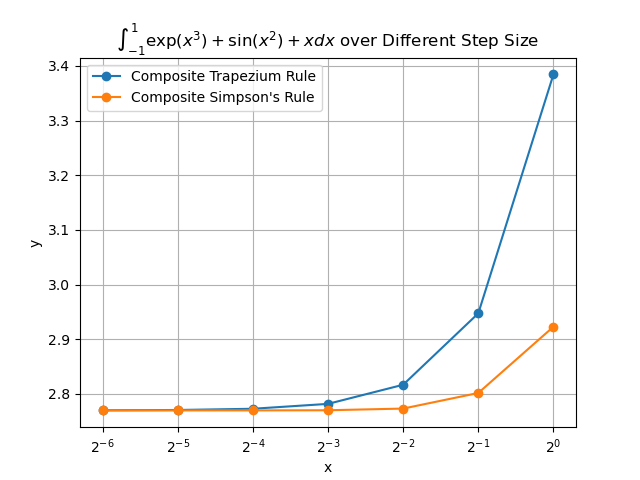
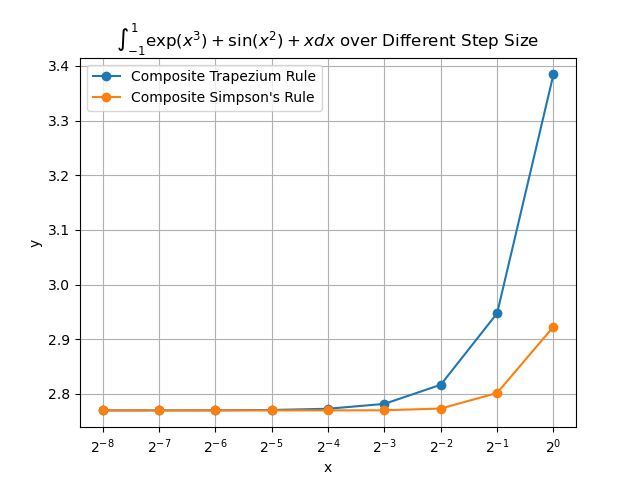
docs: add smaller step size for q1

diff --git a/hw6/q1.py b/hw6/q1.py
@@ -214,8 +214,8 @@ def print_results(col_a : np.array,
 
     # Print header.
     # NOTE: the width of each cell is currently required to be literal int
-    print(f"|{label_a : ^10}|{label_b : ^25}|")
-    print(f"|{':' + '-' * 8 + ':'}|"
+    print(f"|{label_a : ^12}|{label_b : ^25}|")
+    print(f"|{':' + '-' * 10 + ':'}|"
           + f"{':' + '-' * 23 + ':'}|")
     
     # Get the length of column `a`, column `b`.
@@ -234,7 +234,7 @@ def print_results(col_a : np.array,
             row[1] = col_b[index]
         
         # Print row.
-        print(f"| {row[0] : <9}|{row[1] : ^25}|")
+        print(f"| {row[0] : <11}|{row[1] : ^25}|")
 
 def main():
     LOW = 0
@@ -245,7 +245,7 @@ def main():
     BOUND_2 = (0, 2)
 
     # Initialize `h`.
-    steps = np.array([2 ** (-i) for i in range(7)])
+    steps = np.array([2 ** (-i) for i in range(9)])
     print(f"Steps: {steps}")
 
     # Get vectorized integral functions.
@@ -276,6 +276,7 @@ def main():
     plt.plot(steps, simp1, "-o", label=r"Composite Simpson's Rule")
 
     plt.xscale("log", base=2)
+    plt.xticks(steps)
     plt.xlabel("x")
     plt.ylabel("y")
     plt.legend()
@@ -290,6 +291,7 @@ def main():
     plt.plot(steps, simp2, "-o", label=r"Composite Simpson's Rule")
 
     plt.xscale("log", base=2)
+    plt.xticks(steps)
     plt.xlabel("x")
     plt.ylabel("y")
     plt.legend()
